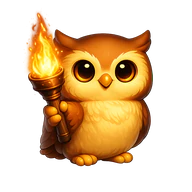
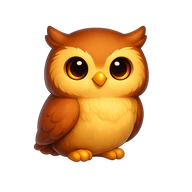
Replace original mascot with plain Snappy, rename old to torch-raised
The previous "original" was an owl holding a torch — actually a torchbearer
variant. Replace it with the true plain Snappy (no accessories) so the
default mascot when randomization is disabled shows the unadorned owl.

Move the old original to `torch-raised` in the TorchBearers group. Rename
the Settings label from "Randomize Snappy mascot" to "Let Snappy do
Cosplay".

diff --git a/src/settings/sections/AppearanceSection.tsx b/src/settings/sections/AppearanceSection.tsx
@@ -31,7 +31,7 @@ export function AppearanceSection() {
         />
       </SettingsEntry>
       <SettingsEntry
-        label="Randomize Snappy mascot"
+        label="Let Snappy do Cosplay"
         description="Show a different Snappy each time the launcher opens"
       >
         <Switch

diff --git a/src/mascotVariants.ts b/src/mascotVariants.ts
@@ -100,6 +100,7 @@ export const Variants = {
   // =========================================================
 
   TorchBearers: [
+    "torch-raised",
     "torchlight",
     "cloak-and-torch",
     "cloak-and-lantern",
